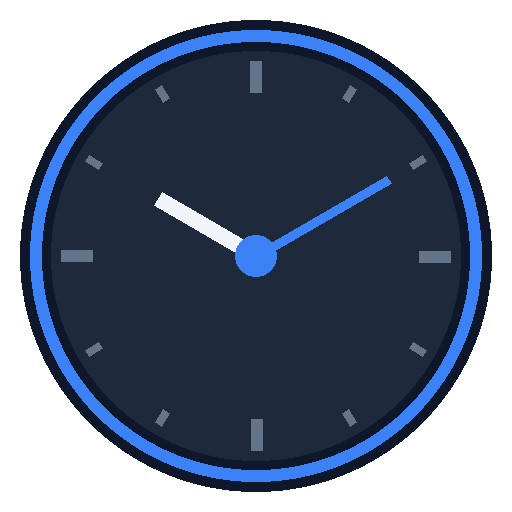
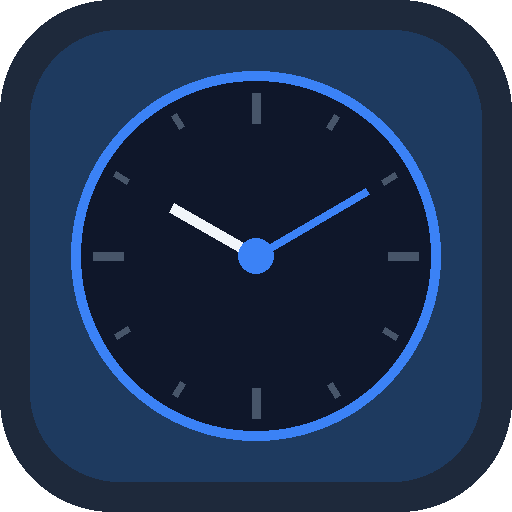
Add files via upload

diff --git a/index.html b/index.html
@@ -55,8 +55,40 @@ function fmtData(iso){ const[y,m,d]=iso.split("-"); return d+"/"+m+"/"+y; }
 const DS=["Dom","Seg","Ter","Qua","Qui","Sex","Sáb"];
 function fmtDia(iso){ return DS[new Date(iso+"T12:00:00").getDay()]; }
 
-function stGet(k){ try{ const v=localStorage.getItem(k); return v?JSON.parse(v):null; }catch{return null;} }
-function stSet(k,v){ try{ localStorage.setItem(k,JSON.stringify(v)); }catch{} }
+/* ── IndexedDB storage (persistente, nao apagado por limpeza de cookies) ── */
+const DB_NAME="pontoDB", DB_VER=1, STORE="dados";
+let _db=null;
+function openDB(){
+  if(_db) return Promise.resolve(_db);
+  return new Promise((res,rej)=>{
+    const req=indexedDB.open(DB_NAME,DB_VER);
+    req.onupgradeneeded=ev=>ev.target.result.createObjectStore(STORE);
+    req.onsuccess=ev=>{ _db=ev.target.result; res(_db); };
+    req.onerror=rej;
+  });
+}
+async function stGet(k){
+  try{
+    const db=await openDB();
+    return new Promise((res,rej)=>{
+      const tx=db.transaction(STORE,"readonly");
+      const req=tx.objectStore(STORE).get(k);
+      req.onsuccess=()=>res(req.result??null);
+      req.onerror=rej;
+    });
+  }catch{ return null; }
+}
+async function stSet(k,v){
+  try{
+    const db=await openDB();
+    return new Promise((res,rej)=>{
+      const tx=db.transaction(STORE,"readwrite");
+      const req=tx.objectStore(STORE).put(v,k);
+      req.onsuccess=()=>res();
+      req.onerror=rej;
+    });
+  }catch{}
+}
 
 /* ── estilos base ── */
 const IS = { background:"#0f172a",border:"1px solid #334155",borderRadius:8,color:"#e2e8f0",padding:"8px 10px",fontSize:14,outline:"none",width:"100%",colorScheme:"dark" };
@@ -154,8 +186,10 @@ function App(){
   const [impSt,   setImpSt]   = useState(null);
 
   useEffect(()=>{
-    const r=stGet(STORAGE_KEY); if(r) setRegs(r);
-    const c=stGet(CONFIG_KEY);  if(c) setConfig(prev=>({...prev,...c}));
+    (async()=>{
+      const r=await stGet(STORAGE_KEY); if(r) setRegs(r);
+      const c=await stGet(CONFIG_KEY);  if(c) setConfig(prev=>({...prev,...c}));
+    })();
   },[]);
 
   function salvarRegs(v){ setRegs(v); stSet(STORAGE_KEY,v); }
@@ -185,11 +219,13 @@ function App(){
   const pares   = regs[data]||[{entrada:"",saida:""}];
   const jornada = Number(config.jornada)||480;
   const valorMin= parseFloat(config.valorMinuto)||0;
+  const folga   = regs[data+"__folga"] === true;
   const trabMin = calcDia(pares);
-  const difMin  = trabMin-jornada;
+  const difMin  = trabMin - (folga ? 0 : jornada);
   const reaisDiff=Math.abs(difMin)*valorMin;
 
   function setPares(v){ salvarRegs({...regs,[data]:v}); }
+  function toggleFolga(){ salvarRegs({...regs,[data+"__folga"]:!(regs[data+"__folga"]===true)}); }
   function updPar(i,campo,val){ setPares(pares.map((p,j)=>j===i?{...p,[campo]:val}:p)); }
   function addPar(){ setPares([...pares,{entrada:"",saida:""}]); }
   function delPar(i){ setPares(pares.length===1?[{entrada:"",saida:""}]:pares.filter((_,j)=>j!==i)); }
@@ -233,8 +269,16 @@ function App(){
           e("button",{onClick:()=>setData(hoje()),style:{...BS,padding:"6px 10px",fontSize:12,color:"#60a5fa"}},"Hoje")
         ),
         e("div",{style:{background:"#1e293b",borderRadius:14,padding:20,border:"1px solid #1e3a5f"}},
-          e("div",{style:{fontSize:13,color:"#94a3b8",marginBottom:14,fontWeight:500}},
-            "Batidas — "+fmtDia(data)+", "+fmtData(data)),
+          e("div",{style:{display:"flex",justifyContent:"space-between",alignItems:"center",marginBottom:14}},
+            e("div",{style:{fontSize:13,color:"#94a3b8",fontWeight:500}},"Batidas — "+fmtDia(data)+", "+fmtData(data)),
+            e("button",{onClick:toggleFolga,style:{
+              background:folga?"#1e293b":"#0f172a",
+              border:"1px solid "+(folga?"#3b82f6":"#334155"),
+              borderRadius:20,padding:"4px 12px",cursor:"pointer",
+              color:folga?"#60a5fa":"#64748b",fontSize:12,fontWeight:600,
+              whiteSpace:"nowrap"
+            }},folga?"🌙 Folga":"📋 Dia útil")
+          ),
           pares.map((par,i)=>e("div",{key:i,style:{display:"flex",alignItems:"center",gap:8,marginBottom:10}},
             e("div",{style:{display:"flex",flexDirection:"column",alignItems:"center",gap:2,flex:1}},
               e("span",{style:{fontSize:10,color:"#64748b"}},"ENTRADA"),
@@ -250,12 +294,12 @@ function App(){
           e("button",{onClick:addPar,style:{...BS,width:"100%",background:"#0f172a",border:"1px dashed #334155",color:"#60a5fa",marginTop:4}},
             "+ Adicionar intervalo / outra entrada")
         ),
-        e(ResumoCard,{trabalhados:trabMin,jornada,diferenca:difMin,reaisDiff,valorMin})
+        e(ResumoCard,{trabalhados:trabMin,jornada:folga?0:jornada,diferenca:difMin,reaisDiff,valorMin})
       ),
 
       /* ── ABA HISTÓRICO ── */
       tab==="historico"&&(()=>{
-        const totalMin=saldoInicialMin+diasOrdenados.reduce((acc,d)=>acc+(calcDia(regs[d]||[])-jornada),0);
+        const totalMin=saldoInicialMin+diasOrdenados.reduce((acc,d)=>{ const fg=regs[d+"__folga"]===true; return acc+(calcDia(regs[d]||[])-(fg?0:jornada)); },0);
         const totalReais=Math.abs(totalMin)*valorMin;
         const pos=totalMin>=0;
         return e("div",{style:{display:"flex",flexDirection:"column",gap:10}},
@@ -284,7 +328,7 @@ function App(){
 
           diasOrdenados.map(d=>{
             const min=calcDia(regs[d]||[]);
-            const diff=min-jornada;
+            const fg=regs[d+"__folga"]===true; const diff=min-(fg?0:jornada);
             const reais=Math.abs(diff)*valorMin;
             return e(SwipeCard,{key:d, onDelete:()=>delDia(d)},
               e("div",{onClick:()=>{setData(d);setTab("dia");},
@@ -292,7 +336,7 @@ function App(){
                   padding:"14px 16px",cursor:"pointer",display:"flex",justifyContent:"space-between",alignItems:"center"}},
                 e("div",null,
                   e("div",{style:{fontWeight:600,fontSize:14}},fmtDia(d)+", "+fmtData(d)),
-                  e("div",{style:{fontSize:12,color:"#64748b",marginTop:2}},"Trabalhado: "+fromMin(min))
+                  e("div",{style:{fontSize:12,color:"#64748b",marginTop:2}},(isFolga?"🌙 Folga — ":"")+"Trabalhado: "+fromMin(min))
                 ),
                 e("div",{style:{textAlign:"right"}},
                   e("div",{style:{fontWeight:700,fontSize:15,color:diff>=0?"#22c55e":"#f87171"}},(diff>=0?"+":"")+fromMin(diff)),